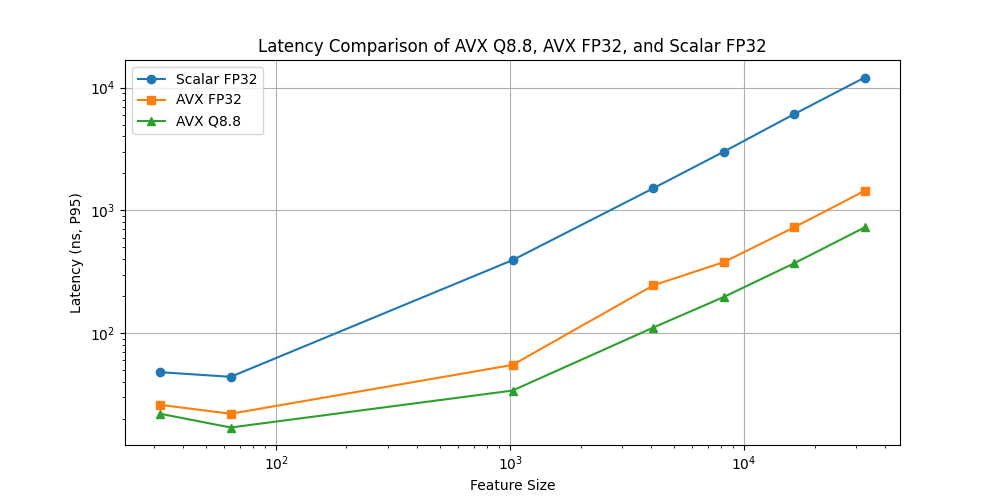
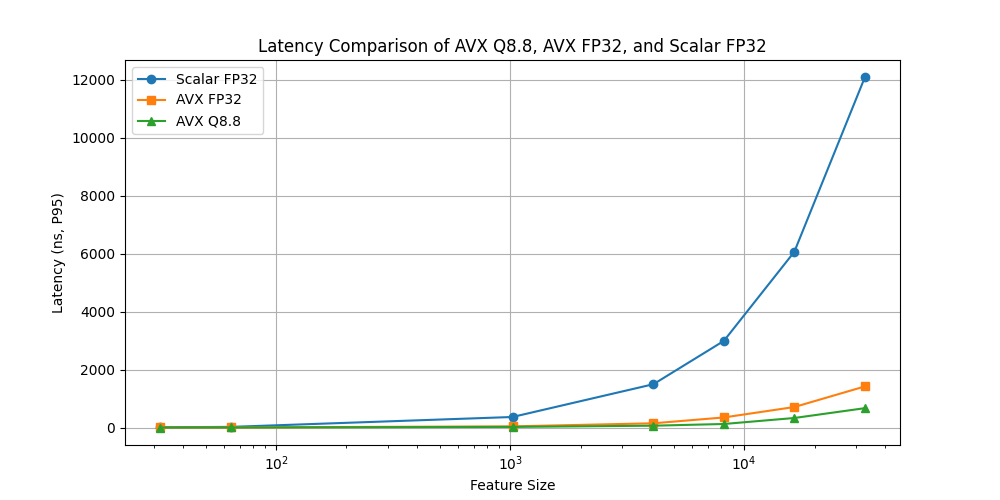
updated values and graphs with new benchmarking function reducing overhead

diff --git a/README.md b/README.md
@@ -1,19 +1,18 @@
 ### **AVX Q8.8 vs. AVX FP32 vs. Scalar FP32 - Performance Summary**
 #### x86-64 Linux - Intel Core i7 14700k ( 3.4 GHz ) | Inference Benchmark
-> **Note**: 95th percentile (**P95**) represents the worst-case latency for 95% of the 1 million inference runs.
-
+> **Note**: The 95th percentile (**P95**) represents the worst-case latency for 95% of 1 million inference runs, where each individual run is averaged over 100 executions to minimize measurement overhead.
 <div align="center">
 
 #### **Latency Comparison (P95)**
 | **Feature Size** | Scalar FP32 | AVX FP32 | AVX Q8.8 |
 |-----------------|-----------------|----------------|----------------|
-| 32  | 48 ns  | 26 ns | 22 ns |
-| 64  |  <span style="color:green">  **44 ns** </span>  | <span style="color:green">  **22 ns** </span>  | <span style="color:green">  **17 ns** </span> |
-| 1024  | 393 ns  | 55 ns  | 34 ns |
-| 4096  |  <span style="color:red">  **1.52 µs**  </span> | 245 ns  | 111 ns  |
-| 8192  | 3.01 µs  | 379 ns  | 197 ns  |
-| 16384  | 6.10 µs  | 728 ns  | 371 ns  |
-| 32768  | 12.10 µs  |  <span style="color:red">  **1.44 µs**  </span> | 727 ns |
+| 32  | <span style="color:green"> **10.46 ns** </span>  | <span style="color:green"> **3.07 ns**  </span> |  <span style="color:green">  **2.18 ns** </span> |
+| 64  |  23.18 ns | 4.14 ns | 2.53 ns |
+| 1024  | 364.64 ns  | 41.45 ns  | 22.62 ns |
+| 4096  |  <span style="color:red">  **1.49 µs**  </span> | 147.14 ns  | 64.42 ns  |
+| 8192  | 2.99 µs  | 348.55 ns  | 123.15 ns  |
+| 16384  | 6.06 µs  | 707.94 ns  | 330.01 ns  |
+| 32768  | 12.07 µs  |  <span style="color:red">  **1.42 µs**  </span> | 668.44 ns |
 
 ![latencyGraph](./images/latencyGraph.png)
 
@@ -26,32 +25,35 @@
 #### **Speedup Comparison (P95)**
 | Feature Size | AVX Q8.8 vs. Scalar | AVX FP32 vs. Scalar | AVX Q8.8 vs. AVX FP32 |
 |-----------------|---------------------------------|--------------------------------|--------------------------------|
-| 32  | 2.18x  | 1.85x  | 1.18x  |
-| 64  | 2.56x  | 2.00x  | 1.29x  |
-| 1024  | 11.56x  | 7.15x  | 1.62x  |
-| 4096  | 13.90x  | 6.18x  | <span style="color:green"> **2.25x** </span> |
-| 8192  | 15.27x  | 7.94x  | 1.92x  |
-| 16384  | 16.43x  | 8.38x  | 1.96x  |
-| 32768  | <span style="color:green"> **16.64x**  </span>  | <span style="color:green">  **8.38x** </span>  | 1.99x  |
+| 32  | 4.8x  | 3.41x  | 1.41x  |
+| 64  | 9.16x  | 5.6x  | 1.64x  |
+| 1024  | 16.12x  | 8.8x  | 1.83x  |
+| 4096  | 23.2x  | <span style="color:green"> **10.16x** </span> | 2.28x |
+| 8192  | <span style="color:green"> **24.27x** </span>  | 8.57x  | <span style="color:green"> **2.83x** </span>|
+| 16384  | 18.36x  | 8.56x  | 2.15x  |
+| 32768  | 18.06x | 8.51x  | 2.12x  |
 
 ![speedupGraph](./images/speedupGraph.png)
 
 </div>
 
 ---
+>**Note**: Here each inference run is executed only once to prevent error accumulation.
 
 <div align="center">
 
 #### **Absolute Error Comparison (P95)**
 | **Feature Size** | **AVX Q8.8 vs. Scalar** | AVX FP32 vs. Scalar |
 |-----------------|----------------------------------|----------------------------------|
-| 32  |  <span style="color:green">  **5.36e-3** </span> | 2.38e-3  |
+| 32  |  5.36e-3 | 2.38e-3  |
 | 64  | 1.01e-2  |  <span style="color:red">  **9.84e-3**  </span> |
 | 1024  | 1.40e-2  | 8.79e-3  |
 | 4096  | 1.44e-2 | 4.65e-3  |
 | 8192  | 1.34e-2  | 2.72e-3 |
-| 16384  | 1.20e-2  |  <span style="color:green">  **1.91e-3**  </span> |
+| 16384  | 1.20e-2  | 1.91e-3 |
 | 32768  |  <span style="color:red">  **3.95e-2** </span> | 5.32e-3  |
+
+![errorGraph](./images/errorGraph.png)
 
 </div>
 
